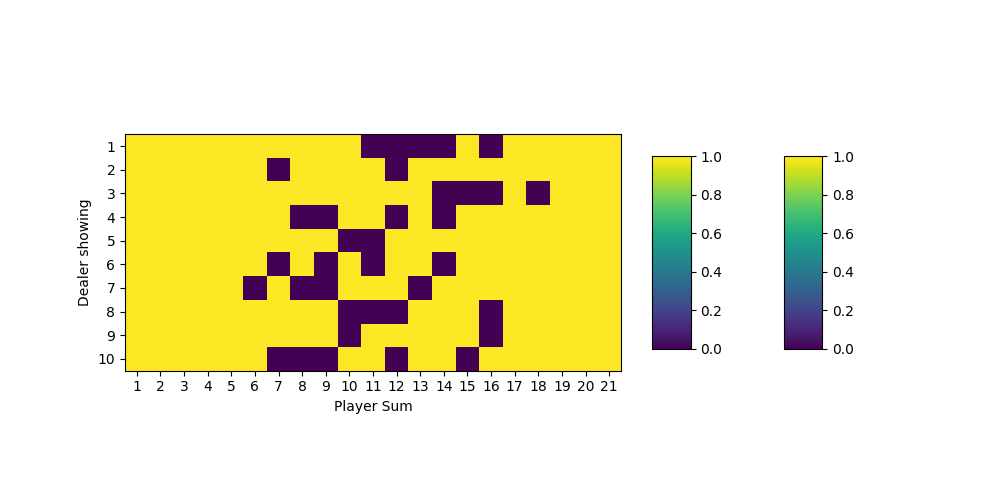
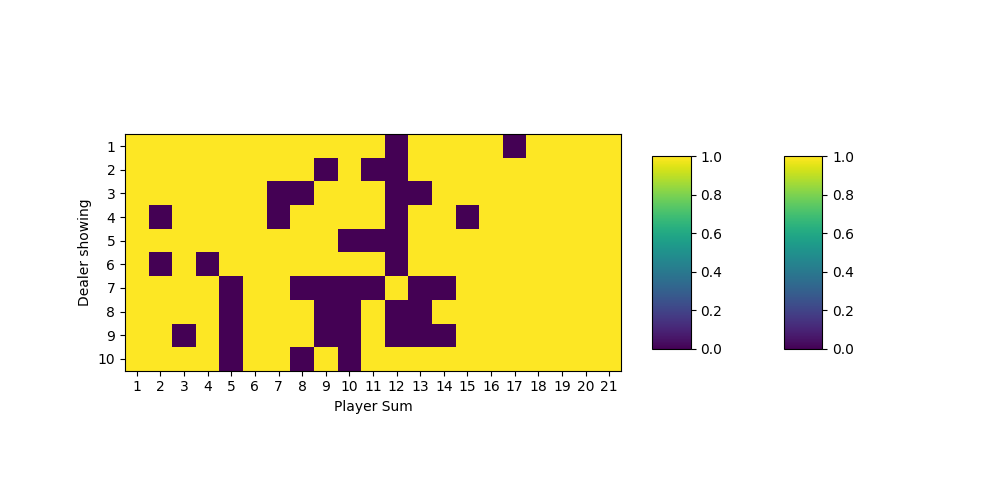
Fixes #18

Changed region(s): [[0.124, 0.27, 0.558, 0.75]]

diff --git a/easy21_agents.py b/easy21_agents.py
@@ -1,172 +1,11 @@
 import numpy as np
-from easy21 import Action, Environment, State
-import copy
 import matplotlib.pyplot as plt
 from matplotlib import cm
-import copy
-import random
 
-class MonteCarloAgentEvaluation:
-    def __init__(self):
-        self.dealer_states = 10
-        self.player_states = 21
-        self.number_visited = np.zeros((self.dealer_states, self.player_states))
-        self.total_return = np.zeros((self.dealer_states, self.player_states))
-        self.value_function = np.zeros((self.dealer_states, self.player_states))
-        self.discount_factor = 0.99
-        self.player_stop = 17
-    
-    # TODO: not needed
-    def get_value_function(self):
-        return self.value_function
-    
-    def get_action(self, state):
-        if state.player_sum >= self.player_stop:
-            action = Action.STICK
-        else:
-            action =  Action.HIT
-        
-        state_tuple = (state.dealer_sum-1, state.player_sum-1)
-        self.number_visited[state_tuple] += 1
-        return action
-    
-    def get_max_action(self, state):
-        return self.get_action(state)
-    
-    def get_policy(self):
-        policy = np.zeros((self.dealer_states, self.player_states))
-        for i in range(self.dealer_states):
-            for j in range(self.player_states):
-                state = State(dealer_sum=i+1, player_sum=j+1)
-                policy[i,j] = self.get_max_action(state).value
-        return policy
-    
-    def predict(self, episode):
-        episode_length = len(episode)
-        for i in range(episode_length):
-            current_return = 0.
-            for j in range(i, episode_length):
-                reward = episode[j][2]
-                current_return += reward * (self.discount_factor ** (j-i))
-            state = episode[i][0]
-            state_tuple = (state.dealer_sum-1, state.player_sum-1)
-            self.total_return[state_tuple] += current_return
-            self.value_function[state_tuple] = self.total_return[state_tuple] / self.number_visited[state_tuple]
+from easy21 import Environment
 
-            
-    def train(self, episodes, env):
-        for e in range(episodes):
-            env.initial_state()
-            print(e)
-            episode = []
-            state = copy.copy(env.state)
-            
-            while True:
-                action = self.get_action(state)
-                next_state, reward, done = env.step(action)
-                print(f'State added: {state}, action: {action}, reward: {reward}')
-                episode.append((state, action, reward))
-                if done: break
-                
-                state = next_state
-                
-
-            #self.iterations += 1
-            if e % 10000 == 0 and e != 0:
-                print("Episode: %d" % e)
-            
-            self.predict(episode) 
-
-        return self.get_value_function()
-    
-class MonteCarloAgentControl:
-    def __init__(self):
-        self.dealer_states = 10
-        self.player_states = 21
-        self.actions = 2
-        self.number_visited = np.zeros((self.dealer_states, self.player_states, self.actions))
-        self.Q = np.zeros((self.dealer_states, self.player_states, self.actions))
-        self.discount_factor = 0.99
-    
-    def get_alpha(self, state, action):
-        return 1.0/(self.number_visited[state.dealer_sum-1][state.player_sum-1][action.value])
-
-    def get_epsilon(self, state):
-        return 100./((100. + sum(self.number_visited[state.dealer_sum-1, state.player_sum-1, :]) * 1.0))
-
-    def get_max_Q(self, state):
-        np.max(self.Q[state.dealer_sum-1][state.player_sum-1])
-
-    def get_max_action(self, state):
-        return Action(np.argmax(self.Q[state.dealer_sum-1][state.player_sum-1]))
-    
-    def control(self, episode):
-        episode_length = len(episode)
-        for i in range(episode_length):
-            current_return = 0.
-            for j in range(i, episode_length):
-                reward = episode[j][2]
-                current_return += reward * (self.discount_factor ** (j-i))
-            state = episode[i][0]
-            action = episode[i][1]
-            state_action_tuple = (state.dealer_sum-1, state.player_sum-1, action.value)
-
-            error = current_return - self.Q[state_action_tuple]
-            self.Q[state_action_tuple] += self.get_alpha(state, action) * error
-
-    def get_action(self, state):
-        #TODO: use numpy instead of if else
-        r = random.random()
-        if r <= self.get_epsilon(state):
-            action = Action(np.random.choice([0,1]))
-        else:
-            action = self.get_max_action(state)
-        
-        state_action_tuple = (state.dealer_sum-1, state.player_sum-1, action.value)
-        self.number_visited[state_action_tuple] += 1
-
-        return action
-    
-    def get_policy(self):
-        policy = np.zeros((self.dealer_states, self.player_states))
-        for i in range(self.dealer_states):
-            for j in range(self.player_states):
-                state = State(dealer_sum=i+1, player_sum=j+1)
-                policy[i,j] = self.get_max_action(state).value
-        return policy
-    
-    def train(self, episodes, env):
-        for e in range(episodes):
-            env.initial_state()
-            print(e)
-            episode = []
-            state = copy.copy(env.state)
-            
-            while True:
-                state_tuple = (state.dealer_sum-1, state.player_sum-1)
-                self.number_visited[state_tuple] += 1
-                action = self.get_action(state)
-                next_state, reward, done = env.step(action)
-                print(f'State added: {state}, action: {action}, reward: {reward}')
-                episode.append((state, action, reward))
-                if done: break
-                
-                state = next_state
-                
-
-            #self.iterations += 1
-            if e % 10000 == 0 and e != 0:
-                print("Episode: %d" % e)
-            
-            self.control(episode) 
-
-        return self.get_value_function()
-    
-    def get_value_function(self):
-        return np.max(self.Q, axis=2)
-    
-
-
+from monte_carlo_agent_evaluation import MonteCarloAgentEvaluation
+from monte_carlo_agent_control import MonteCarloAgentControl
 
 def plot_agent_value_function(name, agent):
     fig = plt.figure('Agent value function', figsize=(10, 5))

diff --git a/monte_carlo_agent_control.py b/monte_carlo_agent_control.py
@@ -1,0 +1,90 @@
+import numpy as np
+import copy
+import random
+from easy21 import Action, State
+
+class MonteCarloAgentControl:
+    def __init__(self):
+        self.dealer_states = 10
+        self.player_states = 21
+        self.actions = 2
+        self.number_visited = np.zeros((self.dealer_states, self.player_states, self.actions))
+        self.Q = np.zeros((self.dealer_states, self.player_states, self.actions))
+        self.discount_factor = 0.99
+    
+    def get_alpha(self, state, action):
+        return 1.0/(self.number_visited[state.dealer_sum-1][state.player_sum-1][action.value])
+
+    def get_epsilon(self, state):
+        return 100./((100. + sum(self.number_visited[state.dealer_sum-1, state.player_sum-1, :]) * 1.0))
+
+    def get_max_Q(self, state):
+        np.max(self.Q[state.dealer_sum-1][state.player_sum-1])
+
+    def get_max_action(self, state):
+        return Action(np.argmax(self.Q[state.dealer_sum-1][state.player_sum-1]))
+    
+    def control(self, episode):
+        episode_length = len(episode)
+        for i in range(episode_length):
+            current_return = 0.
+            for j in range(i, episode_length):
+                reward = episode[j][2]
+                current_return += reward * (self.discount_factor ** (j-i))
+            state = episode[i][0]
+            action = episode[i][1]
+            state_action_tuple = (state.dealer_sum-1, state.player_sum-1, action.value)
+
+            error = current_return - self.Q[state_action_tuple]
+            self.Q[state_action_tuple] += self.get_alpha(state, action) * error
+
+    def get_action(self, state):
+        #TODO: use numpy instead of if else
+        r = random.random()
+        if r <= self.get_epsilon(state):
+            action = Action(np.random.choice([0,1]))
+        else:
+            action = self.get_max_action(state)
+        
+        state_action_tuple = (state.dealer_sum-1, state.player_sum-1, action.value)
+        self.number_visited[state_action_tuple] += 1
+
+        return action
+    
+    def get_policy(self):
+        policy = np.zeros((self.dealer_states, self.player_states))
+        for i in range(self.dealer_states):
+            for j in range(self.player_states):
+                state = State(dealer_sum=i+1, player_sum=j+1)
+                policy[i,j] = self.get_max_action(state).value
+        return policy
+    
+    def train(self, episodes, env):
+        for e in range(episodes):
+            env.initial_state()
+            print(e)
+            episode = []
+            state = copy.copy(env.state)
+            
+            while True:
+                state_tuple = (state.dealer_sum-1, state.player_sum-1)
+                self.number_visited[state_tuple] += 1
+                action = self.get_action(state)
+                next_state, reward, done = env.step(action)
+                print(f'State added: {state}, action: {action}, reward: {reward}')
+                episode.append((state, action, reward))
+                if done: break
+                
+                state = next_state
+                
+
+            #self.iterations += 1
+            if e % 10000 == 0 and e != 0:
+                print("Episode: %d" % e)
+            
+            self.control(episode) 
+
+        return self.get_value_function()
+    
+    def get_value_function(self):
+        return np.max(self.Q, axis=2)

diff --git a/monte_carlo_agent_evaluation.py b/monte_carlo_agent_evaluation.py
@@ -1,0 +1,77 @@
+import numpy as np
+import copy
+
+from easy21 import Action, State
+
+class MonteCarloAgentEvaluation:
+    def __init__(self):
+        self.dealer_states = 10
+        self.player_states = 21
+        self.number_visited = np.zeros((self.dealer_states, self.player_states))
+        self.total_return = np.zeros((self.dealer_states, self.player_states))
+        self.value_function = np.zeros((self.dealer_states, self.player_states))
+        self.discount_factor = 0.99
+        self.player_stop = 17
+    
+    # TODO: not needed
+    def get_value_function(self):
+        return self.value_function
+    
+    def get_action(self, state):
+        if state.player_sum >= self.player_stop:
+            action = Action.STICK
+        else:
+            action =  Action.HIT
+        
+        state_tuple = (state.dealer_sum-1, state.player_sum-1)
+        self.number_visited[state_tuple] += 1
+        return action
+    
+    def get_max_action(self, state):
+        return self.get_action(state)
+    
+    def get_policy(self):
+        policy = np.zeros((self.dealer_states, self.player_states))
+        for i in range(self.dealer_states):
+            for j in range(self.player_states):
+                state = State(dealer_sum=i+1, player_sum=j+1)
+                policy[i,j] = self.get_max_action(state).value
+        return policy
+    
+    def predict(self, episode):
+        episode_length = len(episode)
+        for i in range(episode_length):
+            current_return = 0.
+            for j in range(i, episode_length):
+                reward = episode[j][2]
+                current_return += reward * (self.discount_factor ** (j-i))
+            state = episode[i][0]
+            state_tuple = (state.dealer_sum-1, state.player_sum-1)
+            self.total_return[state_tuple] += current_return
+            self.value_function[state_tuple] = self.total_return[state_tuple] / self.number_visited[state_tuple]
+
+            
+    def train(self, episodes, env):
+        for e in range(episodes):
+            env.initial_state()
+            print(e)
+            episode = []
+            state = copy.copy(env.state)
+            
+            while True:
+                action = self.get_action(state)
+                next_state, reward, done = env.step(action)
+                print(f'State added: {state}, action: {action}, reward: {reward}')
+                episode.append((state, action, reward))
+                if done: break
+                
+                state = next_state
+                
+
+            #self.iterations += 1
+            if e % 10000 == 0 and e != 0:
+                print("Episode: %d" % e)
+            
+            self.predict(episode) 
+
+        return self.get_value_function()
